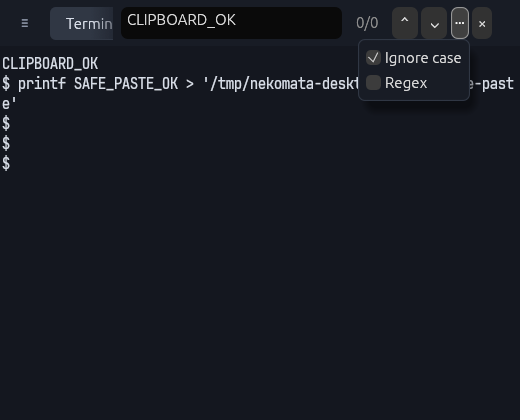
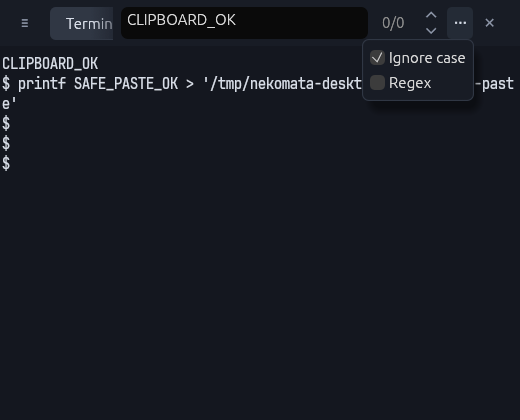
feat: stack search chevrons with hover-only fills
Draw search controls as icons instead of font glyphs and stack previous/next vertically. Keep their backgrounds transparent until hovered, while retaining tooltips, accessible button labels and keyboard focus indication.

Changed region(s): [[0.6462, 0.0, 0.9538, 0.2476]]

diff --git a/src/app.rs b/src/app.rs
@@ -948,11 +948,11 @@ impl App {
             ui.spacing_mut().item_spacing.x = 3.0;
             ui.spacing_mut().button_padding = Vec2::new(5.0, 4.0);
             let entry = ui.add_sized(
-                [(ui.available_width() - 156.0).max(48.0), 30.0],
+                [(ui.available_width() - 132.0).max(48.0), 30.0],
                 egui::TextEdit::singleline(&mut pane.search_query)
                     .id_salt(("scrollback-query", tab.focused))
                     .hint_text("Search scrollback")
-                    .desired_width((ui.available_width() - 156.0).max(48.0))
+                    .desired_width((ui.available_width() - 132.0).max(48.0))
                     .char_limit(1024),
             );
             if std::mem::take(&mut pane.search_focus) {
@@ -985,36 +985,24 @@ impl App {
                     response.on_hover_text("Searching…");
                 }
             }
-            if ui
-                .add_enabled(
-                    !pane.search_query.is_empty(),
-                    egui::Button::new("⌃").min_size(Vec2::splat(24.0)),
-                )
-                .on_hover_text("Previous result · Shift+Enter")
-                .clicked()
-            {
-                navigate = Some(false);
-            }
-            if ui
-                .add_enabled(
-                    !pane.search_query.is_empty(),
-                    egui::Button::new("⌄").min_size(Vec2::splat(24.0)),
-                )
-                .on_hover_text("Search / next result · Enter")
-                .clicked()
-            {
-                navigate = Some(true);
-            }
-            ui.menu_button("⋯", |ui| {
+            ui.add_enabled_ui(!pane.search_query.is_empty(), |ui| {
+                ui.vertical(|ui| {
+                    ui.set_width(24.0);
+                    ui.spacing_mut().item_spacing.y = 0.0;
+                    if search_icon_button(ui, SearchIcon::Previous).clicked() {
+                        navigate = Some(false);
+                    }
+                    if search_icon_button(ui, SearchIcon::Next).clicked() {
+                        navigate = Some(true);
+                    }
+                });
+            });
+            let options = search_icon_button(ui, SearchIcon::Options);
+            egui::Popup::menu(&options).show(|ui| {
                 ui.checkbox(&mut pane.search_ignore_case, "Ignore case");
                 ui.checkbox(&mut pane.search_regex, "Regex");
-            })
-            .response
-            .on_hover_text("Search options");
-            close |= ui
-                .button("×")
-                .on_hover_text("Close search · Escape")
-                .clicked();
+            });
+            close |= search_icon_button(ui, SearchIcon::Close).clicked();
         });
         if close {
             pane.search_open = false;
@@ -1762,6 +1750,76 @@ fn focus_terminal(ctx: &egui::Context) {
             },
         );
     });
+}
+
+#[derive(Clone, Copy)]
+enum SearchIcon {
+    Previous,
+    Next,
+    Options,
+    Close,
+}
+
+fn search_icon_button(ui: &mut egui::Ui, icon: SearchIcon) -> egui::Response {
+    let (height, label) = match icon {
+        SearchIcon::Previous => (15.0, "Previous result · Shift+Enter"),
+        SearchIcon::Next => (15.0, "Search / next result · Enter"),
+        SearchIcon::Options => (30.0, "Search options"),
+        SearchIcon::Close => (30.0, "Close search · Escape"),
+    };
+    let (rect, response) = ui.allocate_exact_size(Vec2::new(24.0, height), Sense::click());
+    response.widget_info(|| egui::WidgetInfo::labeled(egui::Role::Button, ui.is_enabled(), label));
+    if response.hovered() {
+        ui.painter().rect_filled(rect, 4.0, TAB_HOVER_BG);
+    }
+    if response.has_focus() {
+        ui.painter().rect_stroke(
+            rect,
+            4.0,
+            Stroke::new(1.0, ACCENT),
+            egui::StrokeKind::Inside,
+        );
+    }
+    let color = if !ui.is_enabled() {
+        ui.visuals().weak_text_color()
+    } else if response.hovered() {
+        FG
+    } else {
+        TAB_INACTIVE_FG
+    };
+    let center = rect.center();
+    let stroke = Stroke::new(1.4, color);
+    match icon {
+        SearchIcon::Previous | SearchIcon::Next => {
+            let direction = if matches!(icon, SearchIcon::Previous) {
+                1.0
+            } else {
+                -1.0
+            };
+            ui.painter().add(egui::Shape::line(
+                vec![
+                    center + Vec2::new(-4.0, 2.0 * direction),
+                    center + Vec2::new(0.0, -2.0 * direction),
+                    center + Vec2::new(4.0, 2.0 * direction),
+                ],
+                stroke,
+            ));
+        }
+        SearchIcon::Options => {
+            for x in [-4.0, 0.0, 4.0] {
+                ui.painter()
+                    .circle_filled(center + Vec2::new(x, 0.0), 1.0, color);
+            }
+        }
+        SearchIcon::Close => {
+            for direction in [-1.0, 1.0] {
+                let offset = Vec2::new(3.0, direction * 3.0);
+                ui.painter()
+                    .line_segment([center - offset, center + offset], stroke);
+            }
+        }
+    }
+    response.on_hover_text(label)
 }
 
 fn menu_item(ui: &mut egui::Ui, label: &str, shortcut: &str) -> egui::Response {

diff --git a/docs/terminal-tools-validation.md b/docs/terminal-tools-validation.md
@@ -33,11 +33,15 @@ mouse, link-launch and editor-tab operations were not exercised in this pass.
 
 Search is displayed at the right of the tab bar. Enter / ⌄ submits a changed
 query or moves to the next result; ⌃ moves back. Ignore case and Regex are in
-the ⋯ menu. The minimum 480-point window was also inspected for clipped controls.
+the ⋯ menu. The chevrons are drawn shapes stacked vertically; search-button
+backgrounds appear only on hover. The minimum 480-point window was also inspected
+for clipped controls.
 
 ![Search result and highlight](images/terminal-tools-search.png)
 
 ![Search options at minimum window width](images/terminal-tools-search-options.png)
+
+![Only the hovered chevron has a background](images/terminal-tools-search-hover.png)
 
 ## Conditional paste confirmation
 
